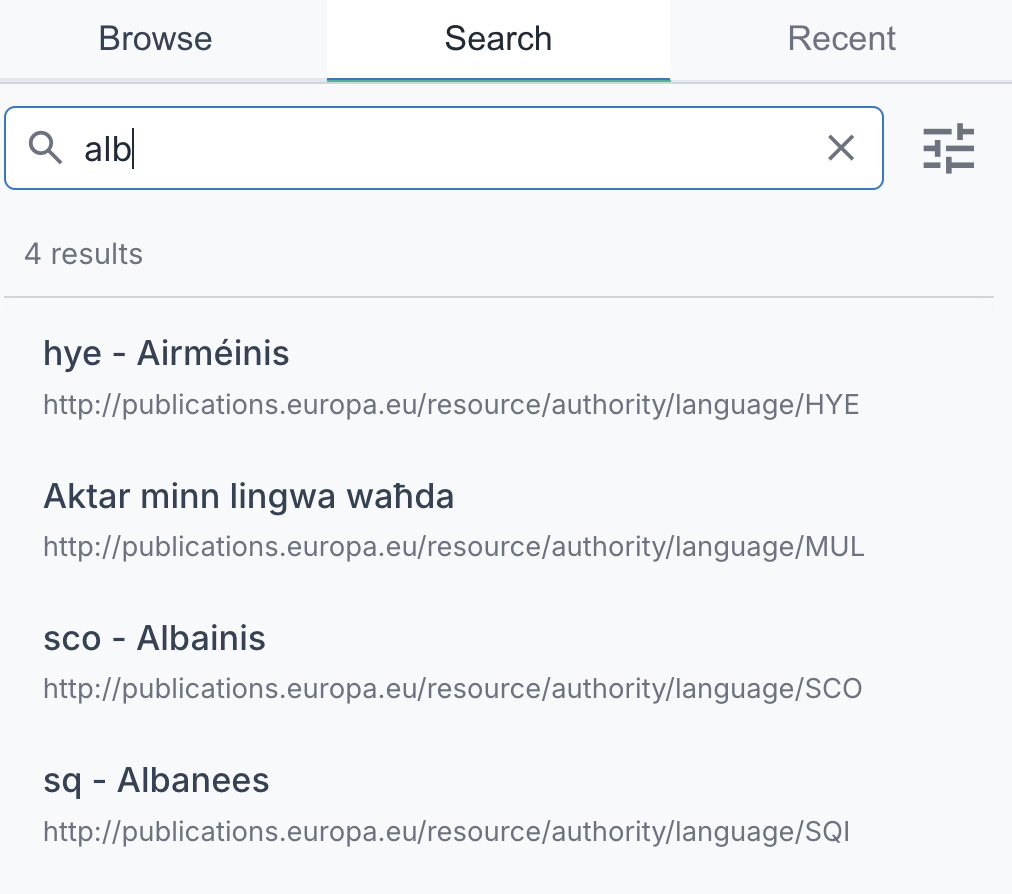
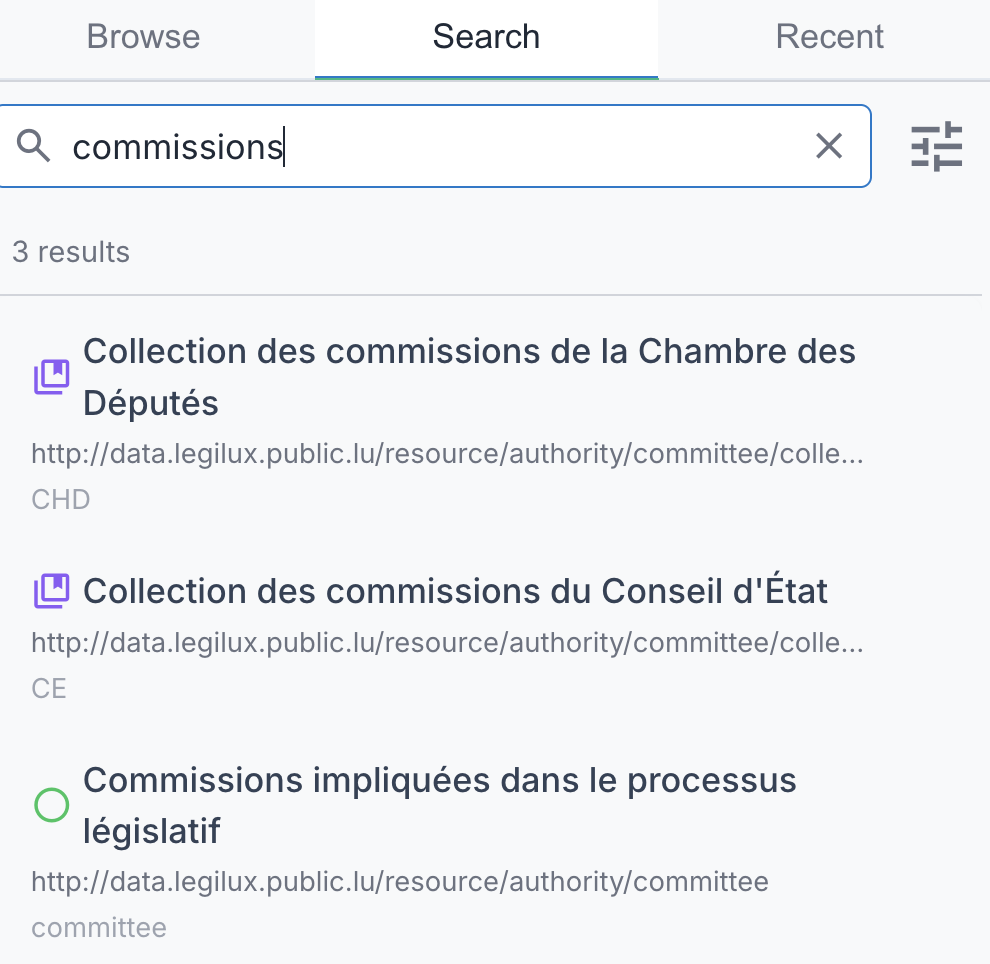
Update user manual for multi-resource search
- Update search docs to reflect schemes, collections, ordered collections
- Add new search panel screenshot showing resource type icons
- Note that Search All Schemes is now enabled by default

diff --git a/docs/ae-skos-manual/04-search.md b/docs/ae-skos-manual/04-search.md
@@ -19,9 +19,9 @@ Click the **Search** tab in the left sidebar to access the search panel.
 2. Refine your query to narrow results
 
 Results show:
-- Concept label and notation
+- Resource label and notation
 - Which field matched (prefLabel, altLabel, definition, notation)
-- The scheme containing the concept
+- The scheme containing the resource (when applicable)
 
 ### Search Settings
 
@@ -32,11 +32,11 @@ Settings are saved automatically and persist across sessions. When you change se
 ### Navigating Results
 
 Click any search result to:
-- Switch to the browse tab and select that concept in the tree
-- Expand ancestors as needed and scroll the concept into view
-- Show its details in the right panel
-- Switch scheme automatically if the concept belongs to a different scheme
-- Add the concept to your [Recent History](#recent-history)
+- Switch to the browse tab and select that item
+- Show details in the right panel
+- Switch scheme automatically when needed
+- Navigate to schemes, concepts, collections, and ordered collections
+- Add the item to your [Recent History](#recent-history)
 
 ---
 

diff --git a/docs/ae-skos-manual/05-settings.md b/docs/ae-skos-manual/05-settings.md
@@ -64,7 +64,7 @@ Configure search behavior (also accessible via the [settings button in the Searc
 | Search in Preferred Labels | Include `skos:prefLabel` values when searching. Enabled by default. |
 | Search in Alternative Labels | Include `skos:altLabel` values when searching. Enabled by default. |
 | Search in Definitions | Also search inside `skos:definition` text. Off by default since it can slow down queries on large endpoints. |
-| Search All Schemes | Search across all concept schemes in the endpoint, ignoring the currently selected scheme filter. |
+| Search All Schemes | Search across all concept schemes in the endpoint, ignoring the currently selected scheme filter. Enabled by default. |
 
 ## Developer Section
 
